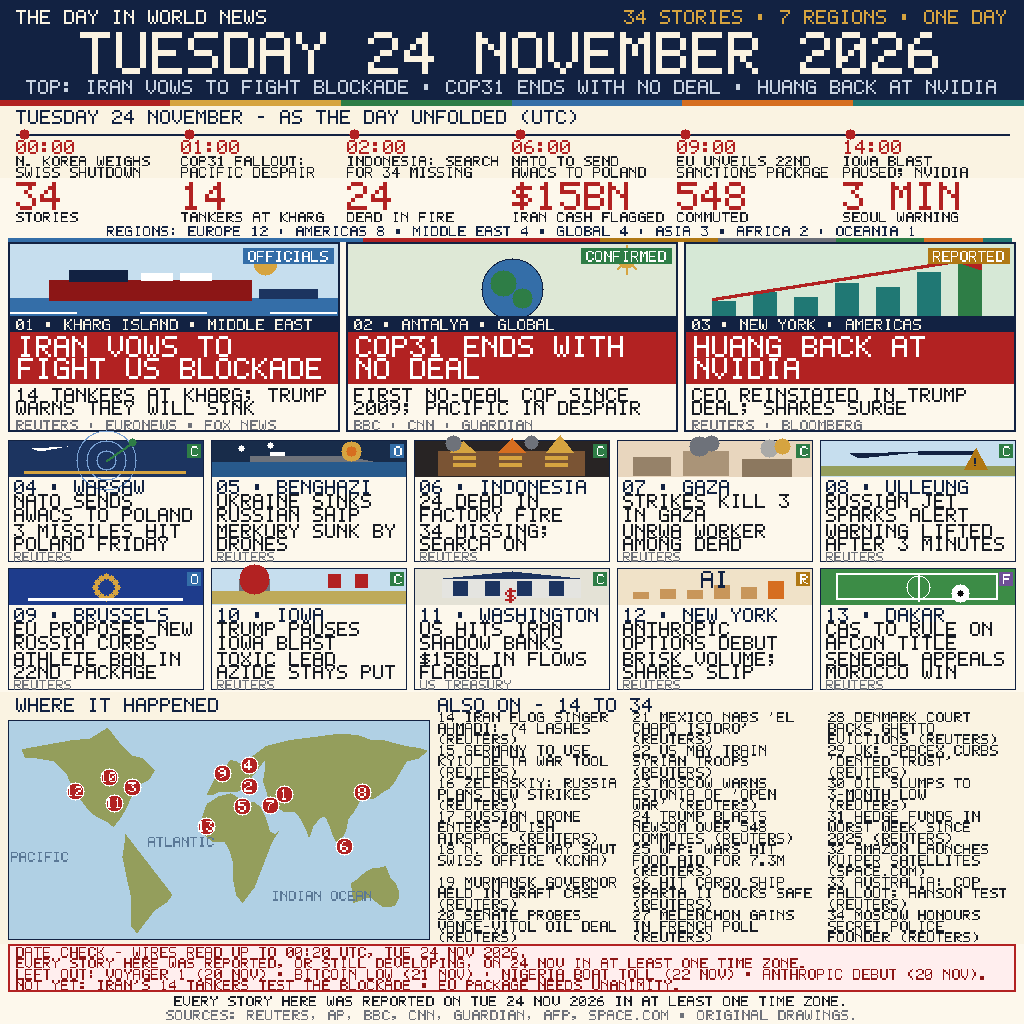
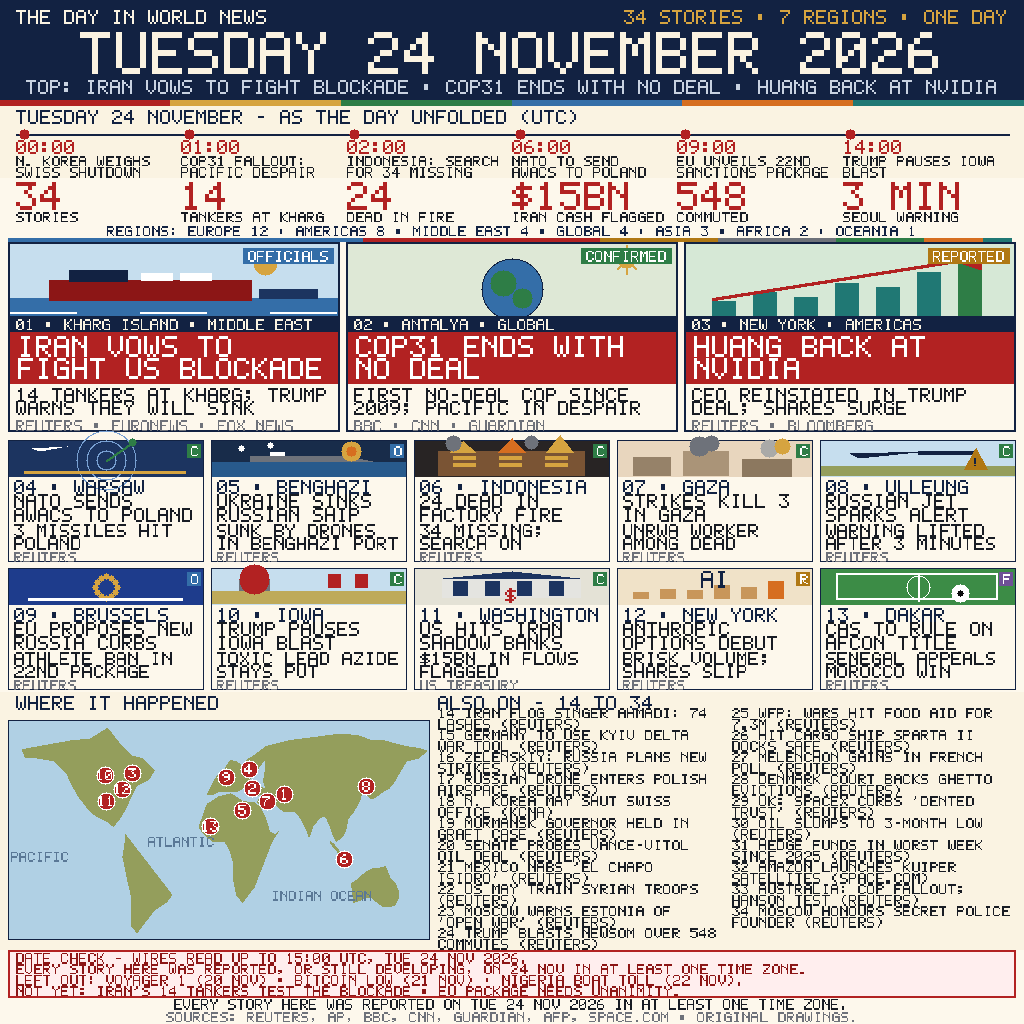
v2: fix blind-judge defects (DATE CHECK 15:00 UTC, drop Anthropic left-out, Poland deck, timeline 14:00, Benghazi deck, map pins on land, ALSO ON 2 cols)

diff --git a/draw.py b/draw.py
@@ -510,29 +510,39 @@ CONTINENTS = {
              (122, 38), (120, 32), (115, 25), (110, 20), (108, 12), (105, 8),
              (100, 5), (97, 10), (95, 15), (92, 20), (90, 22), (85, 20),
              (80, 15), (77, 8), (75, 12), (70, 20), (65, 25), (60, 25),
-             (55, 25), (50, 28), (48, 30), (45, 30), (42, 35), (40, 40),
-             (38, 45), (40, 55), (40, 62)],
+             (55, 25), (50, 28), (48, 30), (45, 30), (40, 29), (35, 29.5),
+             (33, 31), (33.5, 33), (37, 34.5), (40, 35), (42, 35), (38, 36),
+             (33, 35.5), (28, 36.5), (26, 38.5), (27, 40), (30, 41),
+             (35, 41.5), (40, 40), (38, 45), (40, 55), (40, 62)],
+    'IDN_SUMATRA': [(95, 5.5), (98, 3.5), (101, 0.5), (103, -1.5),
+                    (105, -3.5), (106, -5), (104, -5.5), (102, -3),
+                    (100, -0.5), (97, 2), (95, 4.5)],
+    'IDN_JAVA': [(104, -4.5), (108, -5), (112, -5.5), (114, -6),
+                 (114, -9.5), (110, -9.5), (106, -9), (104, -7)],
     'AUS': [(113, -22), (114, -30), (115, -35), (120, -34), (125, -32),
             (130, -32), (135, -35), (140, -38), (145, -38), (150, -37),
             (153, -32), (153, -27), (150, -22), (146, -19), (142, -11),
             (137, -12), (132, -12), (127, -14), (122, -17), (118, -20)],
 }
 
-# (number, lon, lat, dx, dy) - dx/dy manual decluster offsets in px
+# (number, lon, lat, dx, dy) - dx/dy manual decluster offsets in px.
+# v2: every pin centre on rendered land (verified point-in-polygon +
+# pixel ring); pins 3/12 both New York, declustered; pin 12 moved
+# from San Francisco to New York (its story's city).
 PINS = [
     (1, 51.4, 35.7, 5, 0),      # Tehran
-    (2, 30.7, 36.9, -5, -6),    # Antalya
-    (3, -74.0, 40.7, 0, 0),     # New York
-    (4, 21.0, 52.2, 6, -4),     # Warsaw
-    (5, 20.1, 32.1, 0, 6),      # Benghazi
-    (6, 106.8, -6.2, 0, -12),   # Jakarta
-    (7, 34.5, 31.5, 11, 4),     # Gaza
-    (8, 130.9, 37.5, -10, 0),   # Ulleung
-    (9, 4.35, 50.85, -2, 2),    # Brussels
-    (10, -93.1, 41.9, 0, -8),   # Iowa
-    (11, -77.0, 38.9, -14, 14), # Washington
-    (12, -122.4, 37.8, 0, 0),   # San Francisco
-    (13, -17.4, 14.7, 8, 0),    # Dakar
+    (2, 30.7, 36.9, -2, -4),    # Antalya
+    (3, -74.0, 40.7, 0, -14),   # New York
+    (4, 21.0, 52.2, 6, 0),      # Warsaw
+    (5, 20.1, 32.1, 0, 10),     # Benghazi
+    (6, 106.8, -6.2, 0, 1),     # Jakarta (on new Java island polygon)
+    (7, 34.5, 31.5, 8, 0),      # Gaza
+    (8, 130.9, 37.5, -6, -6),   # Ulleung
+    (9, 4.35, 50.85, 2, 6),     # Brussels
+    (10, -93.1, 41.9, -4, -10), # Iowa
+    (11, -77.0, 38.9, -22, 12), # Washington
+    (12, -74.0, 40.7, -10, 2),  # New York (Anthropic)
+    (13, -17.4, 14.7, 12, 0),   # Dakar
 ]
 
 
@@ -558,10 +568,10 @@ HEROES = [
 SMALL = [
     dict(num='04', city='WARSAW', scene='radar',
          headline='NATO SENDS AWACS TO POLAND',
-         deck='3 MISSILES HIT POLAND FRIDAY', source='REUTERS', tag='C'),
+         deck='3 MISSILES HIT POLAND', source='REUTERS', tag='C'),
     dict(num='05', city='BENGHAZI', scene='ship',
          headline='UKRAINE SINKS RUSSIAN SHIP',
-         deck='MERKURY SUNK BY DRONES', source='REUTERS', tag='O'),
+         deck='SUNK BY DRONES IN BENGHAZI PORT', source='REUTERS', tag='O'),
     dict(num='06', city='INDONESIA', scene='fire',
          headline='24 DEAD IN FACTORY FIRE',
          deck='34 MISSING; SEARCH ON', source='REUTERS', tag='C'),
@@ -618,7 +628,7 @@ TIMELINE = [
     ("02:00", "INDONESIA: SEARCH FOR 34 MISSING"),
     ("06:00", "NATO TO SEND AWACS TO POLAND"),
     ("09:00", "EU UNVEILS 22ND SANCTIONS PACKAGE"),
-    ("14:00", "IOWA BLAST PAUSED; NVIDIA RALLIES"),
+    ("14:00", "TRUMP PAUSES IOWA BLAST"),
 ]
 
 NUMBERS = [
@@ -719,7 +729,7 @@ def build():
         for j, ln in enumerate(dlines[:2]):
             draw_text(cv, x + 8, y + 146 + j * 13, ln, 2, INK)
         # source
-        draw_text(cv, x + 8, y + 178, hero['source'], 1.5, GREY)
+        draw_text(cv, x + 8, y + 178, hero['source'], 1.6, GREY)
 
     # ---- 10 small panels, 2 rows of 5 ----
     pw, gap = 196, 7
@@ -735,15 +745,15 @@ def build():
             hlines = wrap_text(p['headline'], 2, pw - 12)
             for j, ln in enumerate(hlines[:2]):
                 draw_text(cv, x + 6, y + 54 + j * 14, ln, 2, INK)
-            dlines = wrap_text(p['deck'], 2, pw - 12)
+            dlines = wrap_text(p['deck'], 1.9, pw - 12)
             for j, ln in enumerate(dlines[:2]):
-                draw_text(cv, x + 6, y + 84 + j * 13, ln, 2, INK)
-            draw_text(cv, x + 6, y + 112, p['source'], 1.4, GREY)
+                draw_text(cv, x + 6, y + 84 + j * 13, ln, 1.9, INK)
+            draw_text(cv, x + 6, y + 112, p['source'], 1.5, GREY)
 
-    # ---- map + ALSO ON 692..944 ----
-    cv.fill_rect(0, 692, W, 252, CREAM)
-    draw_text(cv, 16, 698, 'WHERE IT HAPPENED', 2, NAVY)
-    draw_text(cv, 438, 698, 'ALSO ON - 14 TO 34', 2, NAVY)
+    # ---- map + ALSO ON 692..950 ----
+    cv.fill_rect(0, 692, W, 258, CREAM)
+    draw_text(cv, 16, 696, 'WHERE IT HAPPENED', 2, NAVY)
+    draw_text(cv, 438, 696, 'ALSO ON - 14 TO 34', 2, NAVY)
     # map box
     mx0, my0, mx1, my1 = 8, 720, 430, 940
     cv.fill_rect(mx0, my0, mx1 - mx0, my1 - my0, SEA)
@@ -772,37 +782,37 @@ def build():
         lab = str(num)
         draw_text(cv, int(px), int(py) - 5, lab, 1.5, WHITE, align='c')
 
-    # ALSO ON three columns x 7 rows (3 lines max per item)
-    col_xs = [438, 633, 828]
-    col_ws = [187, 187, 188]
+    # ALSO ON two columns x 11 rows (2 lines max per item, scale 1.5)
+    col_xs = [438, 732]
+    col_ws = [284, 284]
     for idx, item in enumerate(ALSO_ON):
         num = 14 + idx
-        ci = idx // 7
-        ri = idx % 7
+        ci = idx // 11
+        ri = idx % 11
         cx = col_xs[ci]
-        cy = 712 + ri * 33
+        cy = 708 + ri * 22
         full = '%d %s' % (num, item)
         lines = wrap_text(full, 1.5, col_ws[ci])
-        for j, ln in enumerate(lines[:3]):
+        for j, ln in enumerate(lines[:2]):
             draw_text(cv, cx, cy + j * 11, ln, 1.5, INK)
 
-    # ---- DATE CHECK 944..992 ----
-    cv.fill_rect(8, 944, W - 16, 48, (255, 238, 238))
-    cv.rect(8, 944, W - 16, 48, RED, 2)
+    # ---- DATE CHECK 950..998 ----
+    cv.fill_rect(8, 950, W - 16, 48, (255, 238, 238))
+    cv.rect(8, 950, W - 16, 48, RED, 2)
     dc = [
-        'DATE CHECK - WIRES READ UP TO 00:20 UTC, TUE 24 NOV 2026.',
+        'DATE CHECK - WIRES READ UP TO 15:00 UTC, TUE 24 NOV 2026.',
         'EVERY STORY HERE WAS REPORTED, OR STILL DEVELOPING, ON 24 NOV IN AT LEAST ONE TIME ZONE.',
-        "LEFT OUT: VOYAGER 1 (20 NOV) \u2022 BITCOIN LOW (21 NOV) \u2022 NIGERIA BOAT TOLL (22 NOV) \u2022 ANTHROPIC DEBUT (20 NOV).",
+        "LEFT OUT: VOYAGER 1 (20 NOV) \u2022 BITCOIN LOW (21 NOV) \u2022 NIGERIA BOAT TOLL (22 NOV).",
         "NOT YET: IRAN'S 14 TANKERS TEST THE BLOCKADE \u2022 EU PACKAGE NEEDS UNANIMITY.",
     ]
     for j, ln in enumerate(dc):
-        draw_text(cv, 16, 947 + j * 11, ln, 1.5, RED_DK)
+        draw_text(cv, 16, 953 + j * 11, ln, 1.5, RED_DK)
 
-    # ---- footer 992..1024 ----
-    draw_text(cv, W / 2, 996,
+    # ---- footer 998..1024 ----
+    draw_text(cv, W / 2, 999,
               'EVERY STORY HERE WAS REPORTED ON TUE 24 NOV 2026 IN AT LEAST ONE TIME ZONE.',
               1.5, INK, align='c')
-    draw_text(cv, W / 2, 1010,
+    draw_text(cv, W / 2, 1012,
               'SOURCES: REUTERS, AP, BBC, CNN, GUARDIAN, AFP, SPACE.COM \u2022 ORIGINAL DRAWINGS.',
               1.5, GREY, align='c')
     return cv
